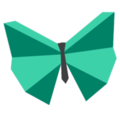
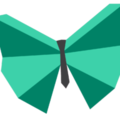
Improves #152: Improved Gothenburg branding
- Updated favicon with transparent background \n- Added green gradient over hero image

diff --git a/src/Swetugg.Web/Content/gbg-2022/css/swetugg.min.css b/src/Swetugg.Web/Content/gbg-2022/css/swetugg.min.css
@@ -1,1 +1,1 @@
-body{width:100%;height:100%;font-family:Arial,Helvetica,sans-serif;font-size:16px;color:#524149;background-color:#fff;}html{width:100%;height:100%;}h1,h2,h3,h4,h5,h6{margin:0 0 35px;text-transform:uppercase;font-family:'Open Sans',sans-serif;font-weight:300;letter-spacing:1px;}h1{font-size:44px;line-height:44px;font-weight:300;font-style:normal;text-align:center;text-transform:uppercase;position:relative;letter-spacing:.1em;margin-bottom:17px;color:#008266;}h1.noSubtitle{margin-bottom:50px;}h2{font-size:24px;line-height:24px;font-weight:300;font-style:normal;padding:0;margin-bottom:17px;}h2.subTitle{font-size:24px;line-height:24px;font-weight:300;font-style:normal;padding:0;margin-top:20px;margin-bottom:17px;text-align:center;}h2.subTitle:after,h1.noSubtitle:after{display:block;height:1px;width:100px;content:'';bottom:-37px;position:absolute;margin-left:-50px;left:50%;}h3,h4{margin:0 0 6px;}p{margin:0 0 25px;font-size:18px;line-height:1.5;}@media(min-width:767px){p{margin:0 0 35px;font-size:20px;line-height:1.6;}}a{color:#008266;-webkit-transition:all .2s ease-in-out;-moz-transition:all .2s ease-in-out;-o-transition:all .2s ease-in-out;transition:all .2s ease-in-out;}a:hover,a:focus{text-decoration:none;color:#001c16;}.light{font-weight:400;}#old-conference{z-index:1000;position:fixed;left:0;right:0;height:50px;line-height:50px;background-color:#7ad4e5;text-align:center;vertical-align:middle;font-size:larger;font-family:'Open Sans',sans-serif;font-weight:bolder;color:#524149;}#old-conference a{color:#fff;text-decoration:underline;}@media(max-width:650px){#old-conference{font-size:14px;}}@media(max-width:450px){#old-conference{white-space:pre-line;line-height:25px;}#old-conference .part-two:before{content:'\a';}}.navbar{margin-bottom:0;border-bottom:1px solid rgba(255,255,255,.3);text-transform:uppercase;font-family:'Montserrat';font-size:14px;background-color:#008266;}.navbar-brand{font-family:'Rock Salt';font-size:14px;}.navbar-brand img{position:relative;top:-10px;margin-right:10px;}.navbar-brand>i{font-size:28px;line-height:.5;position:relative;top:5px;}.navbar-brand:focus{outline:none;}.navbar-nav>li>a{padding-left:10px;padding-right:10px;}.navbar-custom a{color:#fff;}.navbar-custom .nav li a{-webkit-transition:background .3s ease-in-out;-moz-transition:background .3s ease-in-out;-o-transition:background .3s ease-in-out;transition:background .3s ease-in-out;}.navbar-custom .nav li a:hover,.navbar-custom .nav li a:focus,.navbar-custom .nav li.active{outline:none;background-color:rgba(255,255,255,.2);}.navbar-toggle{padding:4px 6px;font-size:16px;color:#fff;}.navbar-toggle:focus,.navbar-toggle:active{outline:none;}@media(min-width:767px){.navbar{padding:20px 0;border-bottom:none;letter-spacing:1px;background:transparent;-webkit-transition:background .5s ease-in-out,padding .5s ease-in-out;-moz-transition:background .5s ease-in-out,padding .5s ease-in-out;-o-transition:background .5s ease-in-out,padding .5s ease-in-out;transition:background .5s ease-in-out,padding .5s ease-in-out;}.top-nav-collapse{padding:0;background-color:#008266;}.navbar-custom.top-nav-collapse{border-bottom:1px solid rgba(255,255,255,.3);}}.intro{display:table;width:100%;height:auto;padding:100px 0;text-align:center;color:#fff;background:url(/Content/gbg-2022/img/top2022.jpg);background-color:#524149;background-size:cover;}#videoBackground{position:fixed;right:0;bottom:0;min-width:100%;min-height:100%;width:auto;height:auto;z-index:-100;background:url(/Content/gbg-2022/img/top2022.jpg);background-color:#524149;background-size:cover;}.intro-body{display:table-cell;vertical-align:middle;}.brand-heading{font-size:40px;color:#fff;padding-bottom:30px;font-family:'Rock Salt';}.brand-heading small{color:#fff;position:relative;font-size:40%;}@media(min-width:767px){.brand-heading small{top:30px;left:150px;}}.intro-text{font-size:18px;padding-top:15px;}@media(min-width:767px){.intro{height:70%;padding-top:150px;padding-left:0;padding-bottom:0;padding-right:0;}.brand-heading{font-size:100px;}.intro-text{font-size:25px;padding-top:15px;}}.btn-circle{width:70px;height:70px;margin-top:15px;padding:7px 16px;border:2px solid #fff;border-radius:35px;font-size:40px;color:#fff;background:transparent;-webkit-transition:background .3s ease-in-out;-moz-transition:background .3s ease-in-out;-o-transition:background .3s ease-in-out;transition:background .3s ease-in-out;}.btn-circle:hover,.btn-circle:focus{outline:none;color:#fff;background:rgba(255,255,255,.1);}.page-scroll .btn-circle i.animated{-webkit-transition-property:-webkit-transform;-o-transition-property:-moz-transform;-moz-transition-property:-moz-transform;transition-property:-moz-transform;-webkit-transition-duration:1s;-moz-transition-duration:1s;-o-transition-duration:1s;transition-duration:1s;}.page-scroll .btn-circle:hover i.animated{-webkit-animation-name:pulse;-moz-animation-name:pulse;-o-animation-name:pulse;animation-name:pulse;-webkit-animation-duration:1.5s;-moz-animation-duration:1.5s;-o-animation-duration:1.5s;animation-duration:1.5s;-webkit-animation-iteration-count:infinite;-moz-animation-iteration-count:infinite;-o-animation-iteration-count:infinite;animation-iteration-count:infinite;-webkit-animation-timing-function:linear;-moz-animation-timing-function:linear;-o-animation-timing-function:linear;animation-timing-function:linear;}@-webkit-keyframes pulse{0 {-webkit-transform:scale(1);-moz-transform:scale(1);-ms-transform:scale(1);-o-transform:scale(1);transform:scale(1);}50% {-webkit-transform:scale(1.2);-moz-transform:scale(1.2);-ms-transform:scale(1.2);-o-transform:scale(1.2);transform:scale(1.2);}100% {-webkit-transform:scale(1);-moz-transform:scale(1);-ms-transform:scale(1);-o-transform:scale(1);transform:scale(1);}pulse{0 {-moz-transform:scale(1);-ms-transform:scale(1);-o-transform:scale(1);-webkit-transform:scale(1);transform:scale(1);}50% {-moz-transform:scale(1.2);-ms-transform:scale(1.2);-o-transform:scale(1.2);-webkit-transform:scale(1.2);transform:scale(1.2);}100% {-moz-transform:scale(1);-ms-transform:scale(1);-o-transform:scale(1);-webkit-transform:scale(1);transform:scale(1);}}.even-section{width:100%;padding:50px inherit;color:#524149;background-color:#fff7fa;background-size:cover;text-align:left;}.odd-section{width:100%;padding:50px inherit;color:#524149;background-color:#fff;background-size:cover;text-align:left;padding-top:0;}.sponsor-section{width:100%;padding:20px inherit;color:#524149;background-color:#fff;padding-top:0;}.content-section>div{padding-top:50px;padding-bottom:50px;}.content-section>.container{padding-left:15px;padding-right:15px;}.now-section>.container{padding-top:20px;padding-bottom:50px;margin-left:15px;margin-right:15px;}@media(min-width:767px){.now-section>.container{margin-left:auto;margin-right:auto;padding-left:100px;padding-right:100px;}}.program-section li{font-size:20px;margin-bottom:20px;}.program-section strong{text-transform:uppercase;font-weight:normal;}table.schema{margin-bottom:50px;}.schema td{padding:0 !important;}.schema th{text-align:center;}.schemacell{height:100%;width:100%;padding:8px;}.schemacell:hover{background:rgba(0,0,0,.03);}.schemacell a{color:#000;text-decoration:none;}.schemacell-rad1{font-size:18px;}.schemacell-rad2{font-size:14px;color:#777;}.schemacell-rad1v2{font-size:14px;color:#777;}.schemacell-rad2v2{font-size:18px;}.schemacell-rad2v2 a{color:#008266;}.schemacell-tid{font-size:14px;font-weight:bold;color:#524149;}.schema-disclaimer{font-size:14px;color:#777;}.member{margin-right:20px;margin-bottom:20px;width:160px;float:left;text-align:left;display:inline-block;}.member-name{font-size:18px;line-height:16px;}.member-twitter{font-size:14px;}footer,.footer-section{background-color:#fff;}.footer-rights-section{background-color:#524149;color:#fff;}.footer-rights-section a{color:#fff7fa;}#map{width:100%;height:400px;margin-top:0;background-color:#524149;}@media(min-width:767px){.content-section>div{padding:75px 0 75px 0;}.sponsor-section{padding:100px 15px;}#map{height:400px;}}.btn{text-transform:uppercase;font-family:"Montserrat","Helvetica Neue",Helvetica,Arial,sans-serif;font-weight:400;-webkit-transition:all .3s ease-in-out;-moz-transition:all .3s ease-in-out;-o-transition:all .3s ease-in-out;transition:all .3s ease-in-out;}.btn-default{border:1px solid #008266;color:#008266;background-color:transparent;}.btn-default:hover,.btn-default:focus{border:1px solid #008266;outline:none;color:#fff;background-color:#008266;}.intro-body .btn-default{border:1px solid #fff;color:#fff;background-color:transparent;}.intro-body .btn-default:hover,.intro-body .btn-default:focus{border:1px solid #fff;outline:none;color:#008266;background-color:#fff;}.btn-huge{padding:25px;font-size:26px;}.banner-buttons{margin-top:0;}.banner-buttons>li{margin-bottom:20px;}@media(max-width:1199px){ul.banner-buttons{margin-top:15px;}}@media(max-width:767px){ul.banner-buttons>li{display:block;padding:0;}ul.banner-buttons>li:last-child{margin-bottom:0;}}::-moz-selection{text-shadow:none;background:#fcfcfc;background:rgba(255,255,255,.2);}::selection{text-shadow:none;background:#fcfcfc;background:rgba(255,255,255,.2);}img::selection{background:transparent;}img::-moz-selection{background:transparent;}body{-webkit-tap-highlight-color:rgba(255,255,255,.2);}ul.socialNetwork{padding:0;display:block;}ul.socialNetwork li{display:inline-block;list-style-type:none;}footer{padding:44px 0;}#footerLogo{margin-bottom:22px;}#footerRights{padding:22px;font-size:12px;}@media(min-width:768px){.footerWidget{float:right;}}.photo-collection{list-style:none;padding-left:20px;}@media(max-width:320px){.photo-collection{padding-left:25px;}}.photo-collection li{float:left;width:130px;height:130px;margin:20px 20px 40px 20px;font-size:14px;text-align:center;}@media(max-width:480px){.photo-collection li{width:80px;height:80px;margin:10px 10px 60px 10px;}}@media(max-width:320px){.photo-collection li{width:60px;height:60px;}}.photo-collection li img{width:130px;height:130px;margin-bottom:10px;}@media(max-width:480px){.photo-collection li img{width:80px;height:80px;margin-bottom:0;}}@media(max-width:320px){.photo-collection li img{width:60px;height:60px;}}.logo-collection{list-style:none;}.logo-collection li{float:left;width:200px;height:120px;margin:20px 45px 40px 45px;font-size:14px;text-align:center;}.logo-collection li img{width:200px;height:120px;margin-bottom:10px;}.logo-collection-now{list-style:none;margin:0 -25px;}.logo-collection-now li{float:left;width:100px;height:60px;margin-right:10px;margin-bottom:10px;font-size:14px;text-align:center;}.logo-collection-now li img{width:100px;height:60px;margin-bottom:10px;}.rwd-table{margin:1em 0;min-width:300px;border-bottom:1px solid #ddd;background-color:#e0f5f9;}.rwd-table th{display:none;}.rwd-table td{display:block;}.rwd-table td:first-child{padding-top:.5em;}.rwd-table td:last-child{padding-bottom:.5em;}.rwd-table td[data-th]:before{content:attr(data-th) " ";text-wrap:none;text-transform:uppercase;letter-spacing:2px;font-size:10px;margin-left:10px;margin-top:13px;display:inline-block;}@media(min-width:640px){.rwd-table td[data-th]:before{display:none;}}.rwd-table th,.rwd-table td{text-align:left;}@media(min-width:640px){.rwd-table th,.rwd-table td{display:table-cell;padding:.25em .5em;}}.rwd-table .all-rooms{background-color:#fff;height:80px;display:table-cell;text-align:center;vertical-align:middle;text-transform:uppercase;}.rwd-table td.all-rooms{letter-spacing:5px;font-size:14px;}@media(max-width:640px){.rwd-table td.all-rooms{text-align:left;padding-left:10px !important;}}.video-wrapper{max-width:420px;max-height:236px;margin:auto;margin-bottom:50px;}.video-container{position:relative;padding-bottom:56.25%;padding-top:30px;height:0;overflow:hidden;}.video-container iframe,.video-container object,.video-container embed{position:absolute;top:0;left:0;width:100%;height:100%;}.space-at-bottom{margin-bottom:15px;}.margin-top{margin-top:40px;}.flickr-link{margin:auto;}.blockquote-container{font-size:15px;padding-top:10px;}.blockquote-small{background-color:#fff7fa;}.blockquote-small-inverted{background-color:#f2fcff;}.blockquote-small p{font-size:15px;color:#008266;}.blockquote-small footer{padding:0;background:inherit;}.photo-collection div.photo{position:relative;display:inline-block;}.photo-collection span.tag-ms-mvp{background-image:url("/Content/sthlm-2020/img/tags/front-ms-mvp-small.png");width:25px;height:25px;position:absolute;bottom:10px;right:10px;}.speaker div.photo{position:relative;display:inline-block;}.speaker div.photo img{width:400px;}.speaker span.tag-ms-mvp{background-image:url("/Content/sthlm-2020/img/tags/speaker-ms-mvp.png");width:181px;height:74px;position:absolute;bottom:0;right:-50px;}
+body{width:100%;height:100%;font-family:Arial,Helvetica,sans-serif;font-size:16px;color:#524149;background-color:#fff;}html{width:100%;height:100%;}h1,h2,h3,h4,h5,h6{margin:0 0 35px;text-transform:uppercase;font-family:'Open Sans',sans-serif;font-weight:300;letter-spacing:1px;}h1{font-size:44px;line-height:44px;font-weight:300;font-style:normal;text-align:center;text-transform:uppercase;position:relative;letter-spacing:.1em;margin-bottom:17px;color:#008266;}h1.noSubtitle{margin-bottom:50px;}h2{font-size:24px;line-height:24px;font-weight:300;font-style:normal;padding:0;margin-bottom:17px;}h2.subTitle{font-size:24px;line-height:24px;font-weight:300;font-style:normal;padding:0;margin-top:20px;margin-bottom:17px;text-align:center;}h2.subTitle:after,h1.noSubtitle:after{display:block;height:1px;width:100px;content:'';bottom:-37px;position:absolute;margin-left:-50px;left:50%;}h3,h4{margin:0 0 6px;}p{margin:0 0 25px;font-size:18px;line-height:1.5;}@media(min-width:767px){p{margin:0 0 35px;font-size:20px;line-height:1.6;}}a{color:#008266;-webkit-transition:all .2s ease-in-out;-moz-transition:all .2s ease-in-out;-o-transition:all .2s ease-in-out;transition:all .2s ease-in-out;}a:hover,a:focus{text-decoration:none;color:#001c16;}.light{font-weight:400;}#old-conference{z-index:1000;position:fixed;left:0;right:0;height:50px;line-height:50px;background-color:#7ad4e5;text-align:center;vertical-align:middle;font-size:larger;font-family:'Open Sans',sans-serif;font-weight:bolder;color:#524149;}#old-conference a{color:#fff;text-decoration:underline;}@media(max-width:650px){#old-conference{font-size:14px;}}@media(max-width:450px){#old-conference{white-space:pre-line;line-height:25px;}#old-conference .part-two:before{content:'\a';}}.navbar{margin-bottom:0;border-bottom:1px solid rgba(255,255,255,.3);text-transform:uppercase;font-family:'Montserrat';font-size:14px;background-color:#008266;}.navbar-brand{font-family:'Rock Salt';font-size:14px;}.navbar-brand img{position:relative;top:-10px;margin-right:10px;}.navbar-brand>i{font-size:28px;line-height:.5;position:relative;top:5px;}.navbar-brand:focus{outline:none;}.navbar-nav>li>a{padding-left:10px;padding-right:10px;}.navbar-custom a{color:#fff;}.navbar-custom .nav li a{-webkit-transition:background .3s ease-in-out;-moz-transition:background .3s ease-in-out;-o-transition:background .3s ease-in-out;transition:background .3s ease-in-out;}.navbar-custom .nav li a:hover,.navbar-custom .nav li a:focus,.navbar-custom .nav li.active{outline:none;background-color:rgba(255,255,255,.2);}.navbar-toggle{padding:4px 6px;font-size:16px;color:#fff;}.navbar-toggle:focus,.navbar-toggle:active{outline:none;}@media(min-width:767px){.navbar{padding:20px 0;border-bottom:none;letter-spacing:1px;background:transparent;-webkit-transition:background .5s ease-in-out,padding .5s ease-in-out;-moz-transition:background .5s ease-in-out,padding .5s ease-in-out;-o-transition:background .5s ease-in-out,padding .5s ease-in-out;transition:background .5s ease-in-out,padding .5s ease-in-out;}.top-nav-collapse{padding:0;background-color:#008266;}.navbar-custom.top-nav-collapse{border-bottom:1px solid rgba(255,255,255,.3);}}.intro{position:relative;display:table;width:100%;height:auto;padding:100px 0;text-align:center;color:#fff;background:url(/Content/gbg-2022/img/top2022.jpg);background-color:#524149;background-size:cover;}.intro:before{position:absolute;top:0;right:0;bottom:0;left:0;content:'';background:linear-gradient(131deg,rgba(0,130,102,.1),rgba(0,130,102,.3));}#videoBackground{position:fixed;right:0;bottom:0;min-width:100%;min-height:100%;width:auto;height:auto;z-index:-100;background:url(/Content/gbg-2022/img/top2022.jpg);background-color:#524149;background-size:cover;}.intro-body{display:table-cell;vertical-align:middle;}.brand-heading{font-size:40px;color:#fff;padding-bottom:30px;font-family:'Rock Salt';}.brand-heading small{color:#fff;position:relative;font-size:40%;}@media(min-width:767px){.brand-heading small{top:30px;left:150px;}}.intro-text{font-size:18px;padding-top:15px;}@media(min-width:767px){.intro{height:70%;padding-top:150px;padding-left:0;padding-bottom:0;padding-right:0;}.brand-heading{font-size:100px;}.intro-text{font-size:25px;padding-top:15px;}}.btn-circle{width:70px;height:70px;margin-top:15px;padding:7px 16px;border:2px solid #fff;border-radius:35px;font-size:40px;color:#fff;background:transparent;-webkit-transition:background .3s ease-in-out;-moz-transition:background .3s ease-in-out;-o-transition:background .3s ease-in-out;transition:background .3s ease-in-out;}.btn-circle:hover,.btn-circle:focus{outline:none;color:#fff;background:rgba(255,255,255,.1);}.page-scroll .btn-circle i.animated{-webkit-transition-property:-webkit-transform;-o-transition-property:-moz-transform;-moz-transition-property:-moz-transform;transition-property:-moz-transform;-webkit-transition-duration:1s;-moz-transition-duration:1s;-o-transition-duration:1s;transition-duration:1s;}.page-scroll .btn-circle:hover i.animated{-webkit-animation-name:pulse;-moz-animation-name:pulse;-o-animation-name:pulse;animation-name:pulse;-webkit-animation-duration:1.5s;-moz-animation-duration:1.5s;-o-animation-duration:1.5s;animation-duration:1.5s;-webkit-animation-iteration-count:infinite;-moz-animation-iteration-count:infinite;-o-animation-iteration-count:infinite;animation-iteration-count:infinite;-webkit-animation-timing-function:linear;-moz-animation-timing-function:linear;-o-animation-timing-function:linear;animation-timing-function:linear;}@-webkit-keyframes pulse{0 {-webkit-transform:scale(1);-moz-transform:scale(1);-ms-transform:scale(1);-o-transform:scale(1);transform:scale(1);}50% {-webkit-transform:scale(1.2);-moz-transform:scale(1.2);-ms-transform:scale(1.2);-o-transform:scale(1.2);transform:scale(1.2);}100% {-webkit-transform:scale(1);-moz-transform:scale(1);-ms-transform:scale(1);-o-transform:scale(1);transform:scale(1);}pulse{0 {-moz-transform:scale(1);-ms-transform:scale(1);-o-transform:scale(1);-webkit-transform:scale(1);transform:scale(1);}50% {-moz-transform:scale(1.2);-ms-transform:scale(1.2);-o-transform:scale(1.2);-webkit-transform:scale(1.2);transform:scale(1.2);}100% {-moz-transform:scale(1);-ms-transform:scale(1);-o-transform:scale(1);-webkit-transform:scale(1);transform:scale(1);}}.even-section{width:100%;padding:50px inherit;color:#524149;background-color:#fff7fa;background-size:cover;text-align:left;}.odd-section{width:100%;padding:50px inherit;color:#524149;background-color:#fff;background-size:cover;text-align:left;padding-top:0;}.sponsor-section{width:100%;padding:20px inherit;color:#524149;background-color:#fff;padding-top:0;}.content-section>div{padding-top:50px;padding-bottom:50px;}.content-section>.container{padding-left:15px;padding-right:15px;}.now-section>.container{padding-top:20px;padding-bottom:50px;margin-left:15px;margin-right:15px;}@media(min-width:767px){.now-section>.container{margin-left:auto;margin-right:auto;padding-left:100px;padding-right:100px;}}.program-section li{font-size:20px;margin-bottom:20px;}.program-section strong{text-transform:uppercase;font-weight:normal;}table.schema{margin-bottom:50px;}.schema td{padding:0 !important;}.schema th{text-align:center;}.schemacell{height:100%;width:100%;padding:8px;}.schemacell:hover{background:rgba(0,0,0,.03);}.schemacell a{color:#000;text-decoration:none;}.schemacell-rad1{font-size:18px;}.schemacell-rad2{font-size:14px;color:#777;}.schemacell-rad1v2{font-size:14px;color:#777;}.schemacell-rad2v2{font-size:18px;}.schemacell-rad2v2 a{color:#008266;}.schemacell-tid{font-size:14px;font-weight:bold;color:#524149;}.schema-disclaimer{font-size:14px;color:#777;}.member{margin-right:20px;margin-bottom:20px;width:160px;float:left;text-align:left;display:inline-block;}.member-name{font-size:18px;line-height:16px;}.member-twitter{font-size:14px;}footer,.footer-section{background-color:#fff;}.footer-rights-section{background-color:#524149;color:#fff;}.footer-rights-section a{color:#fff7fa;}#map{width:100%;height:400px;margin-top:0;background-color:#524149;}@media(min-width:767px){.content-section>div{padding:75px 0 75px 0;}.sponsor-section{padding:100px 15px;}#map{height:400px;}}.btn{text-transform:uppercase;font-family:"Montserrat","Helvetica Neue",Helvetica,Arial,sans-serif;font-weight:400;-webkit-transition:all .3s ease-in-out;-moz-transition:all .3s ease-in-out;-o-transition:all .3s ease-in-out;transition:all .3s ease-in-out;}.btn-default{border:1px solid #008266;color:#008266;background-color:transparent;}.btn-default:hover,.btn-default:focus{border:1px solid #008266;outline:none;color:#fff;background-color:#008266;}.intro-body .btn-default{border:1px solid #fff;color:#fff;background-color:transparent;}.intro-body .btn-default:hover,.intro-body .btn-default:focus{border:1px solid #fff;outline:none;color:#008266;background-color:#fff;}.btn-huge{padding:25px;font-size:26px;}.banner-buttons{margin-top:0;}.banner-buttons>li{margin-bottom:20px;}@media(max-width:1199px){ul.banner-buttons{margin-top:15px;}}@media(max-width:767px){ul.banner-buttons>li{display:block;padding:0;}ul.banner-buttons>li:last-child{margin-bottom:0;}}::-moz-selection{text-shadow:none;background:#fcfcfc;background:rgba(255,255,255,.2);}::selection{text-shadow:none;background:#fcfcfc;background:rgba(255,255,255,.2);}img::selection{background:transparent;}img::-moz-selection{background:transparent;}body{-webkit-tap-highlight-color:rgba(255,255,255,.2);}ul.socialNetwork{padding:0;display:block;}ul.socialNetwork li{display:inline-block;list-style-type:none;}footer{padding:44px 0;}#footerLogo{margin-bottom:22px;}#footerRights{padding:22px;font-size:12px;}@media(min-width:768px){.footerWidget{float:right;}}.photo-collection{list-style:none;padding-left:20px;}@media(max-width:320px){.photo-collection{padding-left:25px;}}.photo-collection li{float:left;width:130px;height:130px;margin:20px 20px 40px 20px;font-size:14px;text-align:center;}@media(max-width:480px){.photo-collection li{width:80px;height:80px;margin:10px 10px 60px 10px;}}@media(max-width:320px){.photo-collection li{width:60px;height:60px;}}.photo-collection li img{width:130px;height:130px;margin-bottom:10px;}@media(max-width:480px){.photo-collection li img{width:80px;height:80px;margin-bottom:0;}}@media(max-width:320px){.photo-collection li img{width:60px;height:60px;}}.logo-collection{list-style:none;}.logo-collection li{float:left;width:200px;height:120px;margin:20px 45px 40px 45px;font-size:14px;text-align:center;}.logo-collection li img{width:200px;height:120px;margin-bottom:10px;}.logo-collection-now{list-style:none;margin:0 -25px;}.logo-collection-now li{float:left;width:100px;height:60px;margin-right:10px;margin-bottom:10px;font-size:14px;text-align:center;}.logo-collection-now li img{width:100px;height:60px;margin-bottom:10px;}.rwd-table{margin:1em 0;min-width:300px;border-bottom:1px solid #ddd;background-color:#e0f5f9;}.rwd-table th{display:none;}.rwd-table td{display:block;}.rwd-table td:first-child{padding-top:.5em;}.rwd-table td:last-child{padding-bottom:.5em;}.rwd-table td[data-th]:before{content:attr(data-th) " ";text-wrap:none;text-transform:uppercase;letter-spacing:2px;font-size:10px;margin-left:10px;margin-top:13px;display:inline-block;}@media(min-width:640px){.rwd-table td[data-th]:before{display:none;}}.rwd-table th,.rwd-table td{text-align:left;}@media(min-width:640px){.rwd-table th,.rwd-table td{display:table-cell;padding:.25em .5em;}}.rwd-table .all-rooms{background-color:#fff;height:80px;display:table-cell;text-align:center;vertical-align:middle;text-transform:uppercase;}.rwd-table td.all-rooms{letter-spacing:5px;font-size:14px;}@media(max-width:640px){.rwd-table td.all-rooms{text-align:left;padding-left:10px !important;}}.video-wrapper{max-width:420px;max-height:236px;margin:auto;margin-bottom:50px;}.video-container{position:relative;padding-bottom:56.25%;padding-top:30px;height:0;overflow:hidden;}.video-container iframe,.video-container object,.video-container embed{position:absolute;top:0;left:0;width:100%;height:100%;}.space-at-bottom{margin-bottom:15px;}.margin-top{margin-top:40px;}.flickr-link{margin:auto;}.blockquote-container{font-size:15px;padding-top:10px;}.blockquote-small{background-color:#fff7fa;}.blockquote-small-inverted{background-color:#f2fcff;}.blockquote-small p{font-size:15px;color:#008266;}.blockquote-small footer{padding:0;background:inherit;}.photo-collection div.photo{position:relative;display:inline-block;}.photo-collection span.tag-ms-mvp{background-image:url("/Content/sthlm-2020/img/tags/front-ms-mvp-small.png");width:25px;height:25px;position:absolute;bottom:10px;right:10px;}.speaker div.photo{position:relative;display:inline-block;}.speaker div.photo img{width:400px;}.speaker span.tag-ms-mvp{background-image:url("/Content/sthlm-2020/img/tags/speaker-ms-mvp.png");width:181px;height:74px;position:absolute;bottom:0;right:-50px;}

diff --git a/src/Swetugg.Web/Content/gbg-2022/css/swetugg.less b/src/Swetugg.Web/Content/gbg-2022/css/swetugg.less
@@ -260,6 +260,7 @@ a:focus {
 // Full Page Image Intro Section
 
 .intro {
+    position: relative;
     display: table;
     width: 100%;
     height: auto;
@@ -269,6 +270,16 @@ a:focus {
     background: url(/Content/gbg-2022/img/top2022.jpg);
     background-color: @dark;
     background-size: cover;
+
+    &:before {
+        position: absolute;
+        top: 0;
+        right: 0;
+        bottom: 0;
+        left: 0;
+        content: '';
+        background: linear-gradient(131deg, fade(@primary, 10%), fade(@primary, 30%));
+    }
 }
 
 #videoBackground {

diff --git a/src/Swetugg.Web/Content/gbg-2022/css/swetugg.css b/src/Swetugg.Web/Content/gbg-2022/css/swetugg.css
@@ -210,6 +210,7 @@ a:focus {
   }
 }
 .intro {
+  position: relative;
   display: table;
   width: 100%;
   height: auto;
@@ -219,6 +220,15 @@ a:focus {
   background: url(/Content/gbg-2022/img/top2022.jpg);
   background-color: #524149;
   background-size: cover;
+}
+.intro:before {
+  position: absolute;
+  top: 0;
+  right: 0;
+  bottom: 0;
+  left: 0;
+  content: '';
+  background: linear-gradient(131deg, rgba(0, 130, 102, 0.1), rgba(0, 130, 102, 0.3));
 }
 #videoBackground {
   position: fixed;
